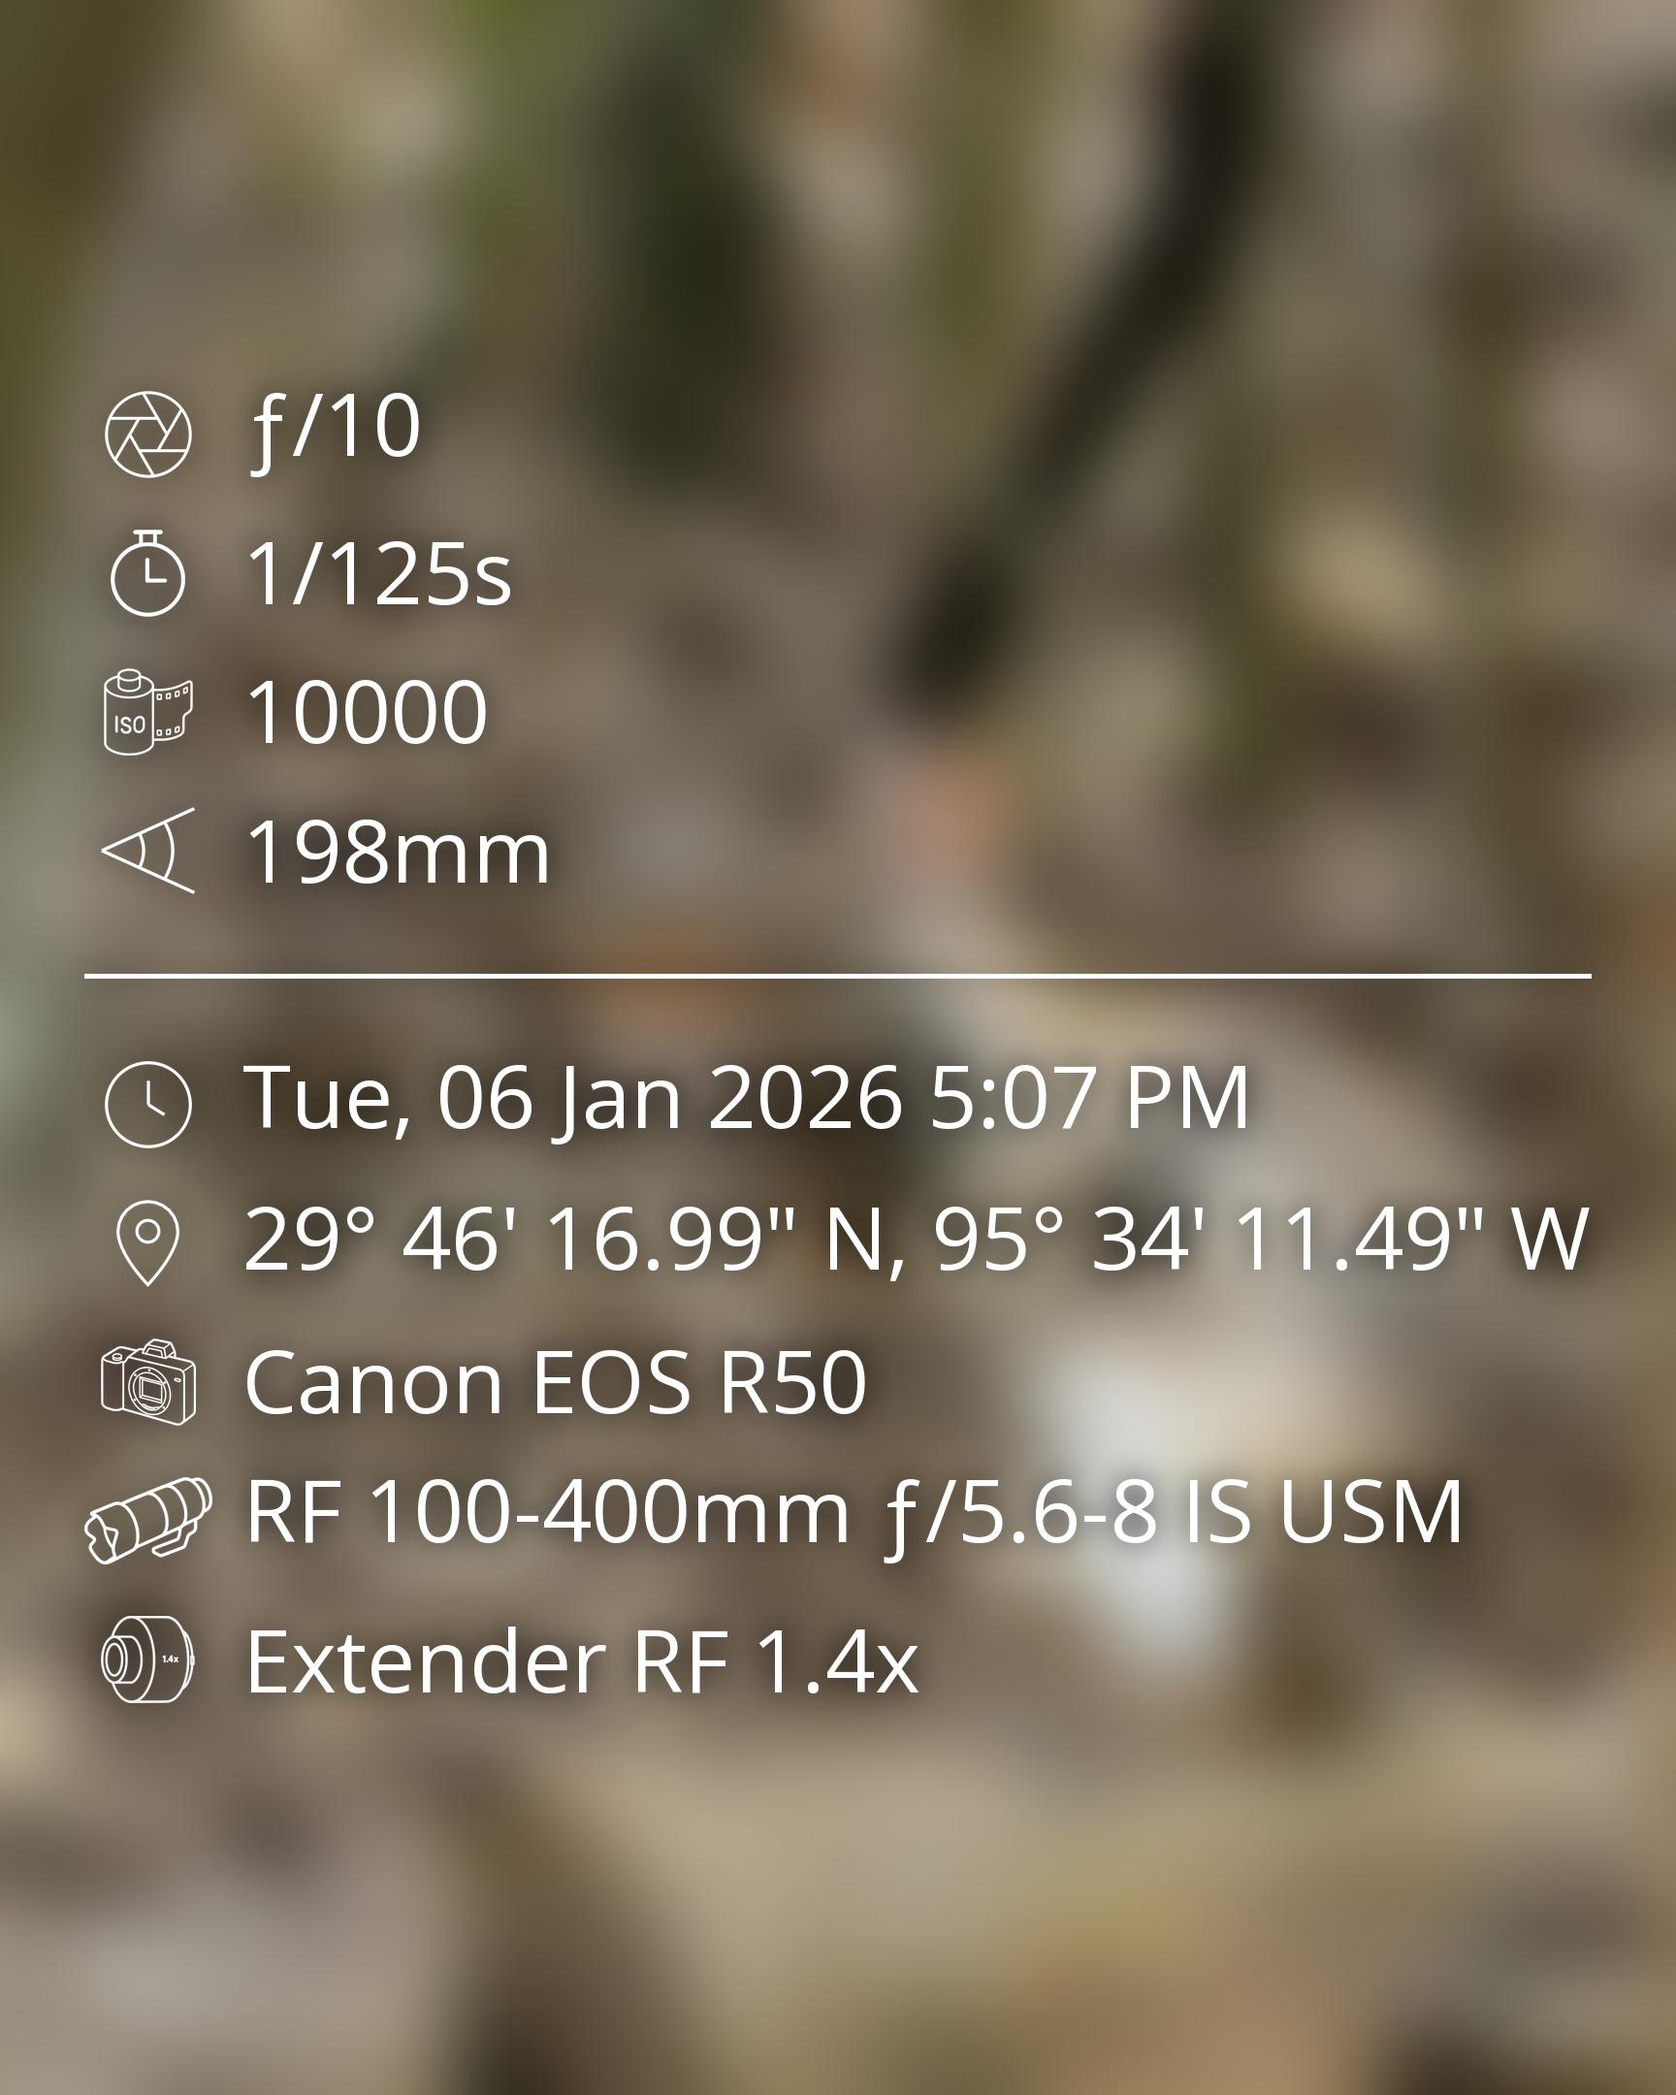
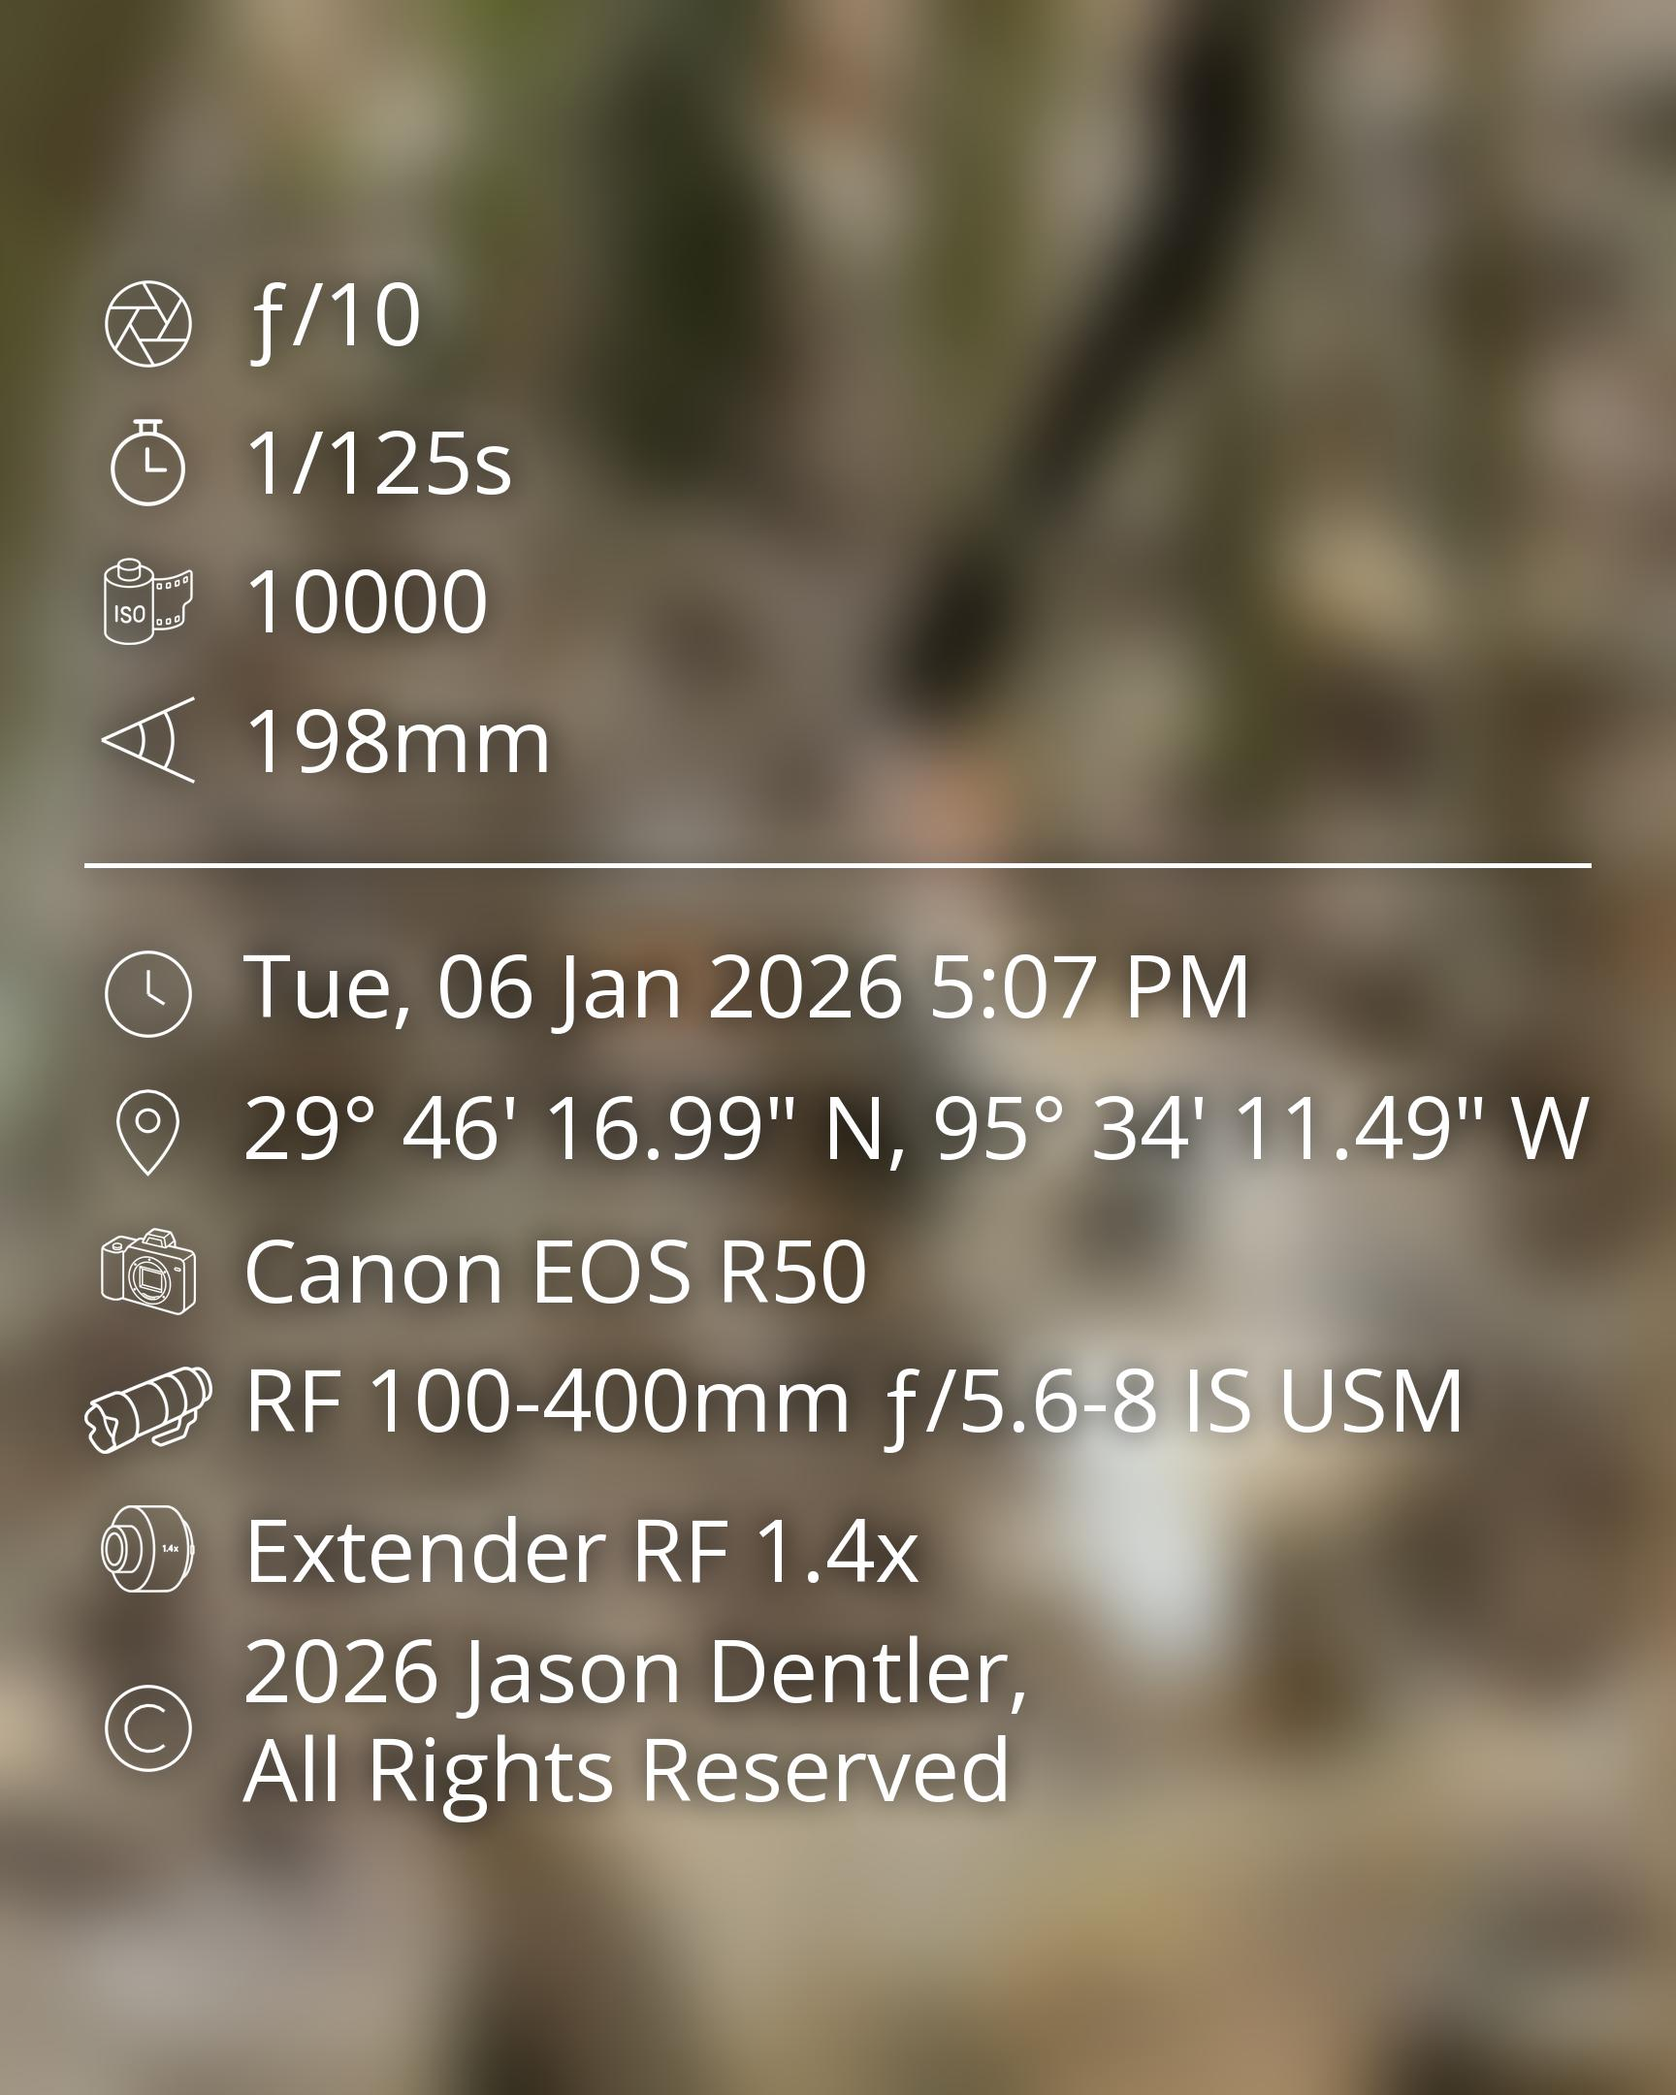
Add copyright row to metadata overlay
- Read copyright metadata from EXIF/XMP/IPTC fields
- Render copyright as a final overlay row with the copyright SVG icon
- Trim the leading © from copyright text and wrap “All Rights Reserved” onto a second line
- Add multiline overlay spacing and keep icons vertically centered
- Cover copyright formatting, overlay layout, processor metadata, and SVG rendering with tests
- Regenerate blurred sample outputs

diff --git a/src/overlay.py b/src/overlay.py
@@ -10,12 +10,20 @@ import os
 
 from PIL import Image, ImageColor, ImageDraw, ImageFilter, ImageFont
 
-from src.formatters import format_gear_display_name, split_lens_extender
+from src.formatters import (
+    format_copyright_display_name,
+    format_gear_display_name,
+    split_lens_extender,
+)
 from src.svg_icons import get_icon_aspect, render_svg_icon
 
 
 BACKDROP_MAX_ALPHA = 210
 BACKDROP_ALPHA_MULTIPLIER = 0.95
+
+
+def get_multiline_spacing(font_size):
+    return max(4, int(font_size * 0.16))
 
 
 def get_text_color(image):
@@ -31,6 +39,7 @@ def measure_overlay_rows(draw, rows, font, font_size, icon_dir):
     row_gap = max(10, int(font_size * 0.38))
     divider_margin = max(10, int(font_size * 0.45))
     divider_height = max(1, int(font_size * 0.06))
+    multiline_spacing = get_multiline_spacing(font_size)
     ascent, descent = font.getmetrics()
     row_height = max(1, ascent + descent)
     text_metrics = []
@@ -39,13 +48,19 @@ def measure_overlay_rows(draw, rows, font, font_size, icon_dir):
         if row.get("divider"):
             continue
 
-        text_bbox = draw.textbbox((0, 0), row["text"], font=font)
+        if "\n" in row["text"]:
+            text_bbox = draw.multiline_textbbox(
+                (0, 0), row["text"], font=font, spacing=multiline_spacing
+            )
+        else:
+            text_bbox = draw.textbbox((0, 0), row["text"], font=font)
         text_metrics.append(
             {
                 "row": row,
                 "bbox": text_bbox,
                 "text_width": text_bbox[2] - text_bbox[0],
                 "visual_text_height": max(1, text_bbox[3] - text_bbox[1]),
+                "multiline_spacing": multiline_spacing if "\n" in row["text"] else 0,
             }
         )
 
@@ -82,12 +97,14 @@ def measure_overlay_rows(draw, rows, font, font_size, icon_dir):
             icon_w = icon_widths[row["icon"]]
             row_w = icon_column_width + icon_gap + text_metric["text_width"]
             width = max(width, row_w)
+            metric_height = max(row_height, text_metric["visual_text_height"])
             metric = {
                 "type": "row",
                 "row": row,
                 "bbox": text_metric["bbox"],
-                "height": row_height,
+                "height": metric_height,
                 "visual_text_height": text_metric["visual_text_height"],
+                "multiline_spacing": text_metric["multiline_spacing"],
                 "icon_height": icon_height,
                 "icon_width": icon_w,
                 "icon_column_width": icon_column_width,
@@ -170,7 +187,16 @@ def draw_overlay_backdrop(image, rows, layout, x, y, font, font_color, icon_dir)
             + (metric["height"] - metric["visual_text_height"]) // 2
             - metric["bbox"][1]
         )
-        mask_draw.text((text_x, text_y), row["text"], fill=255, font=font)
+        if "\n" in row["text"]:
+            mask_draw.multiline_text(
+                (text_x, text_y),
+                row["text"],
+                fill=255,
+                font=font,
+                spacing=metric["multiline_spacing"],
+            )
+        else:
+            mask_draw.text((text_x, text_y), row["text"], fill=255, font=font)
         current_y += metric["height"]
 
     blur_radius = max(4, int(layout["row_gap"] * 0.45))
@@ -211,7 +237,16 @@ def draw_overlay_rows(image, draw, rows, layout, x, y, font, font_color, icon_di
             + (metric["height"] - metric["visual_text_height"]) // 2
             - metric["bbox"][1]
         )
-        draw.text((text_x, text_y), row["text"], fill=font_color, font=font)
+        if "\n" in row["text"]:
+            draw.multiline_text(
+                (text_x, text_y),
+                row["text"],
+                fill=font_color,
+                font=font,
+                spacing=metric["multiline_spacing"],
+            )
+        else:
+            draw.text((text_x, text_y), row["text"], fill=font_color, font=font)
         current_y += metric["height"]
 
 
@@ -229,6 +264,7 @@ def build_overlay_rows(
     clean_time,
     raw_gps,
     gps_display,
+    copyright_notice,
     defaults,
 ):
     settings_rows = []
@@ -269,6 +305,14 @@ def build_overlay_rows(
                     "text": format_gear_display_name(extender),
                 }
             )
+
+    if copyright_notice and copyright_notice != defaults["copyright"]:
+        info_rows.append(
+            {
+                "icon": "copyright.svg",
+                "text": format_copyright_display_name(copyright_notice),
+            }
+        )
 
     rows = [*settings_rows]
     if settings_rows and info_rows:

diff --git a/tests/test_overlay.py b/tests/test_overlay.py
@@ -7,6 +7,7 @@ from src.overlay import (
     build_overlay_rows,
     get_backdrop_alpha,
     get_backdrop_color,
+    get_multiline_spacing,
     measure_overlay_rows,
 )
 
@@ -24,6 +25,7 @@ DEFAULTS = {
     "iso": "Unknown",
     "raw_date": "Unknown",
     "raw_gps": "Unknown",
+    "copyright": "Unknown Copyright",
 }
 
 
@@ -43,6 +45,7 @@ class OverlayTests(unittest.TestCase):
             "10:05 AM",
             "29.57362742 -94.39025578",
             '29° 34\' 25.06" N, 94° 23\' 24.92" W',
+            "© 2026 Jason Dentler, All Rights Reserved",
             DEFAULTS,
         )
 
@@ -59,11 +62,13 @@ class OverlayTests(unittest.TestCase):
                 "camera-isometric.svg",
                 "lens-isometric.svg",
                 "teleconverter.svg",
+                "copyright.svg",
             ],
         )
         self.assertEqual(rows[5]["text"], "Fri, 03 Apr 2026 10:05 AM")
         self.assertEqual(rows[8]["text"], "RF 100-400mm ƒ/5.6-8 IS USM")
         self.assertEqual(rows[9]["text"], "Extender RF 1.4x")
+        self.assertEqual(rows[10]["text"], "2026 Jason Dentler,\nAll Rights Reserved")
 
     def test_builds_sony_teleconverter_rows(self):
         rows = build_overlay_rows(
@@ -80,6 +85,7 @@ class OverlayTests(unittest.TestCase):
             "3:42 PM",
             "Unknown",
             "Unknown",
+            "© 2026 Jason Dentler, All Rights Reserved",
             DEFAULTS,
         )
 
@@ -88,6 +94,7 @@ class OverlayTests(unittest.TestCase):
         self.assertEqual(rows[8]["icon"], "teleconverter.svg")
         self.assertEqual(rows[7]["text"], "FE 200-600mm ƒ/5.6-6.3 G OSS")
         self.assertEqual(rows[8]["text"], "1.4x Teleconverter")
+        self.assertEqual(rows[9]["icon"], "copyright.svg")
 
     def test_omits_default_values_and_divider_when_only_settings_exist(self):
         rows = build_overlay_rows(
@@ -104,6 +111,7 @@ class OverlayTests(unittest.TestCase):
             "",
             "Unknown",
             "Unknown",
+            "Unknown Copyright",
             DEFAULTS,
         )
 
@@ -130,6 +138,7 @@ class OverlayTests(unittest.TestCase):
             "3:42 PM",
             "Unknown",
             "Unknown",
+            "Unknown Copyright",
             DEFAULTS,
         )
         image = Image.new("RGB", (1080, 1440), "white")
@@ -142,6 +151,39 @@ class OverlayTests(unittest.TestCase):
         self.assertEqual(len({metric["icon_height"] for metric in row_metrics}), 1)
         self.assertEqual(len({metric["icon_column_width"] for metric in row_metrics}), 1)
         self.assertTrue(all(metric["icon_width"] <= metric["icon_column_width"] for metric in row_metrics))
+
+    def test_layout_adds_spacing_for_multiline_copyright_row(self):
+        rows = build_overlay_rows(
+            "ILCE-7M5",
+            "Sony α7 V",
+            "FE 200-600mm F5.6-6.3 G OSS + 1.4X Teleconverter",
+            "0.0004",
+            "1/2500",
+            "9",
+            "840",
+            "12800",
+            "2026:07:27 15:42:00",
+            "Mon, 27 Jul 2026",
+            "3:42 PM",
+            "Unknown",
+            "Unknown",
+            "© 2026 Jason Dentler, All Rights Reserved",
+            DEFAULTS,
+        )
+        image = Image.new("RGB", (1080, 1440), "white")
+        draw = ImageDraw.Draw(image)
+        font_size = 60
+        font = ImageFont.truetype(str(FONT_PATH), size=font_size)
+        layout = measure_overlay_rows(draw, rows, font, font_size, str(ICON_DIR))
+        copyright_metric = layout["metrics"][-1]
+        single_line_metric = next(
+            metric for metric in layout["metrics"] if metric["type"] == "row"
+        )
+
+        self.assertEqual(
+            copyright_metric["multiline_spacing"], get_multiline_spacing(font_size)
+        )
+        self.assertGreater(copyright_metric["height"], single_line_metric["height"])
 
     def test_backdrop_color_flips_for_text_color(self):
         self.assertEqual(get_backdrop_color("black"), (255, 255, 255))

diff --git a/src/processor.py b/src/processor.py
@@ -49,6 +49,7 @@ def process_photo(input_path):
         default_iso = "Unknown"
         default_raw_date = "Unknown"
         default_raw_gps = "Unknown"
+        default_copyright = "Unknown Copyright"
         default_alt_text = "No alt text"
         default_caption = "No caption"
         default_title = "No title"
@@ -62,6 +63,7 @@ def process_photo(input_path):
             "iso": default_iso,
             "raw_date": default_raw_date,
             "raw_gps": default_raw_gps,
+            "copyright": default_copyright,
         }
 
         camera = metadata.get("EXIF:Model", default_camera)
@@ -74,6 +76,13 @@ def process_photo(input_path):
         iso = metadata.get("EXIF:ISO", metadata.get("EXIF:BaseISO", default_iso))
         raw_date = metadata.get("EXIF:DateTimeOriginal", default_raw_date)
         raw_gps = metadata.get("Composite:GPSPosition", default_raw_gps)
+        copyright_notice = metadata.get(
+            "EXIF:Copyright",
+            metadata.get(
+                "XMP:Rights",
+                metadata.get("IPTC:CopyrightNotice", default_copyright),
+            ),
+        )
 
         clean_date, clean_time = format_date_time(raw_date)
         gps_display, maps_url = format_gps(raw_gps)
@@ -113,6 +122,7 @@ def process_photo(input_path):
             clean_time,
             raw_gps,
             gps_display,
+            copyright_notice,
             defaults,
         )
 

diff --git a/tests/test_formatters.py b/tests/test_formatters.py
@@ -2,6 +2,7 @@ import unittest
 
 from src.formatters import (
     format_camera_model,
+    format_copyright_display_name,
     format_date_time,
     format_gear_display_name,
     format_gps,
@@ -86,6 +87,16 @@ class FormatterTests(unittest.TestCase):
         self.assertEqual(
             format_gear_display_name("super TELEPHOTO lens"),
             "Super Telephoto Lens",
+        )
+
+    def test_formats_copyright_display_name(self):
+        self.assertEqual(
+            format_copyright_display_name("© 2026 Jason Dentler, All Rights Reserved"),
+            "2026 Jason Dentler,\nAll Rights Reserved",
+        )
+        self.assertEqual(
+            format_copyright_display_name("2026 Jason Dentler, All Rights Reserved"),
+            "2026 Jason Dentler,\nAll Rights Reserved",
         )
 
 

diff --git a/tests/test_processor.py b/tests/test_processor.py
@@ -34,6 +34,7 @@ class FakeExifToolHelper:
                 "EXIF:ISO": "12800",
                 "EXIF:DateTimeOriginal": "2026:07:27 15:42:00",
                 "Composite:GPSPosition": "Unknown",
+                "EXIF:Copyright": "© 2026 Jason Dentler, All Rights Reserved",
                 "EXIF:Software": "",
             }
         ]
@@ -66,6 +67,7 @@ class ProcessorTests(unittest.TestCase):
                 "🔍 Lens: FE 200-600mm F5.6-6.3 G OSS + 1.4X Teleconverter",
                 output_text_content,
             )
+            self.assertNotIn("Copyright", output_text_content)
             self.assertEqual(len(FakeExifToolHelper.instances), 2)
             self.assertIn(str(output_image), FakeExifToolHelper.instances[1].execute_args)
 

diff --git a/src/formatters.py b/src/formatters.py
@@ -120,3 +120,12 @@ def format_gear_display_name(name):
         return word[0].upper() + word[1:].lower()
 
     return re.sub(r"\b[A-Za-z]{4,}\b", pascal_case_long_word, name)
+
+
+def format_copyright_display_name(copyright_notice):
+    """Formats copyright metadata for the image overlay."""
+    if not isinstance(copyright_notice, str):
+        return copyright_notice
+
+    copyright_notice = re.sub(r"^\s*©\s*", "", copyright_notice)
+    return re.sub(r",\s+(?=All Rights Reserved\b)", ",\n", copyright_notice)

diff --git a/tests/test_svg_icons.py b/tests/test_svg_icons.py
@@ -14,6 +14,7 @@ class SvgIconTests(unittest.TestCase):
             "shutter-speed.svg",
             "iso.svg",
             "focal-length.svg",
+            "copyright.svg",
             "date-time.svg",
             "gps-coordinates.svg",
             "camera-isometric.svg",
